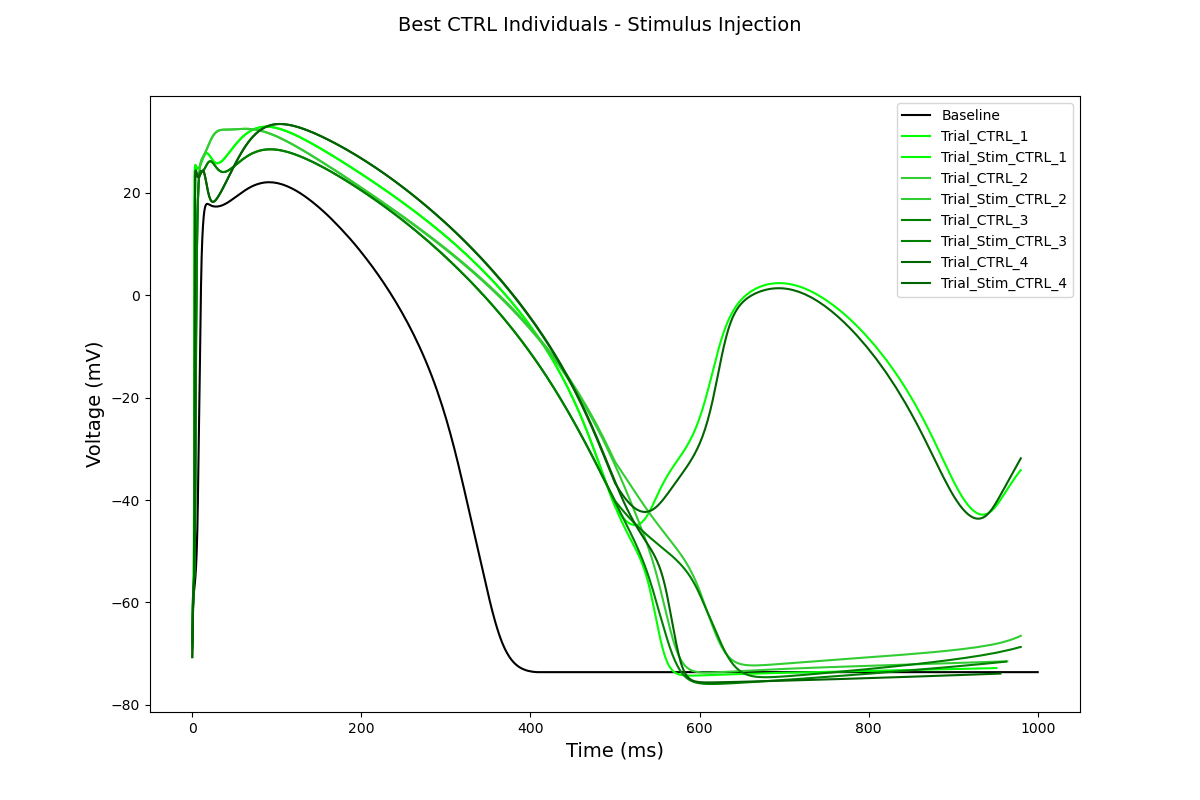
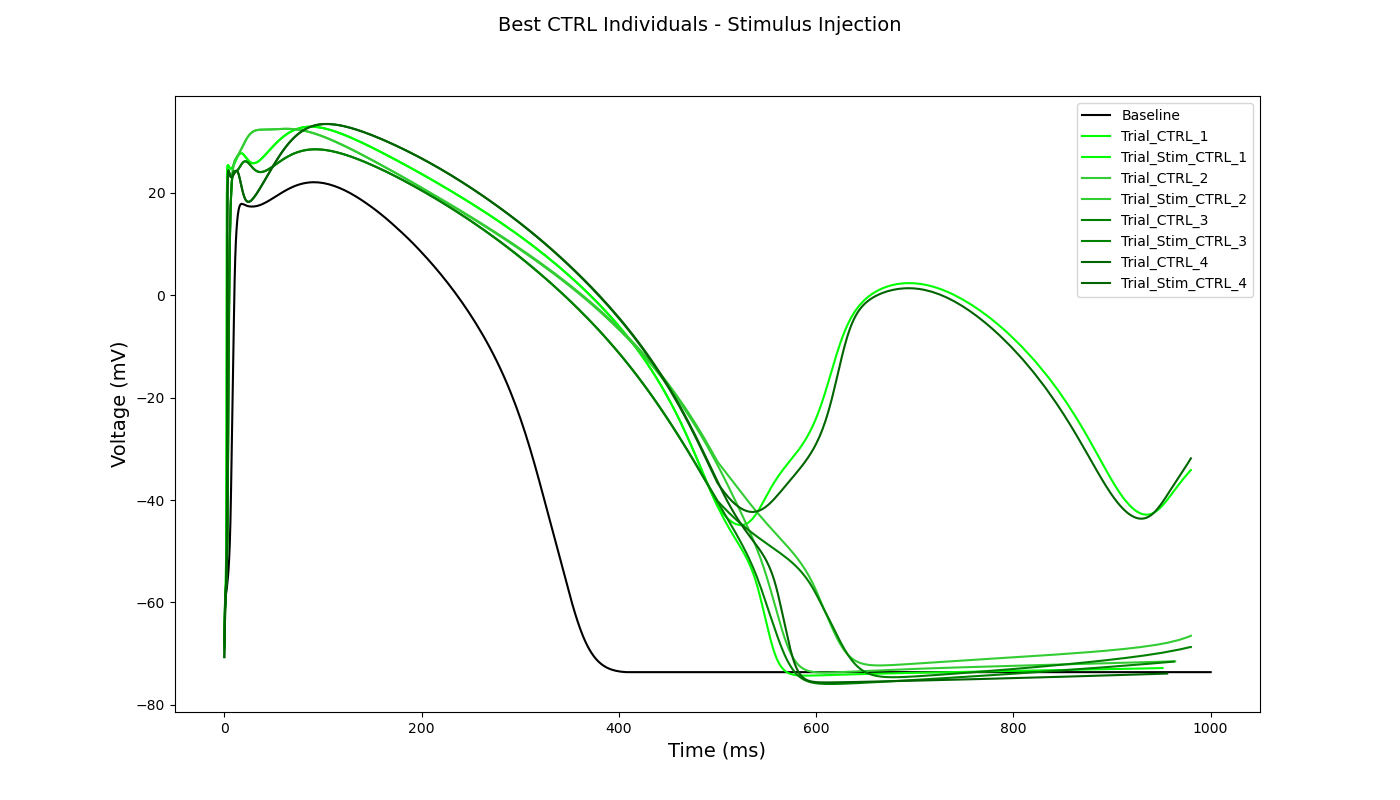
newkernik

diff --git a/GA_bNa_bCa_NaK/stim.py b/GA_bNa_bCa_NaK/stim.py
@@ -8,7 +8,7 @@ from scipy.signal import find_peaks
 
 #%%
 ############## STIMULATED HCM POPULATION ##############
-plt.figure(figsize=(12,8))
+plt.figure(figsize=(14,8))
 t, v = baseline_run()
 plt.plot(t, v, '-k', label = 'Baseline')
 
@@ -30,7 +30,7 @@ plt.savefig('Plot_Stim_HCM.png')
 plt.show()
 
 ############## STIMULATED CTRL POPULATION ##############
-plt.figure(figsize=(12,8))
+plt.figure(figsize=(14,8))
 t, v = baseline_run()
 plt.plot(t, v, '-k', label = 'Baseline')
 
